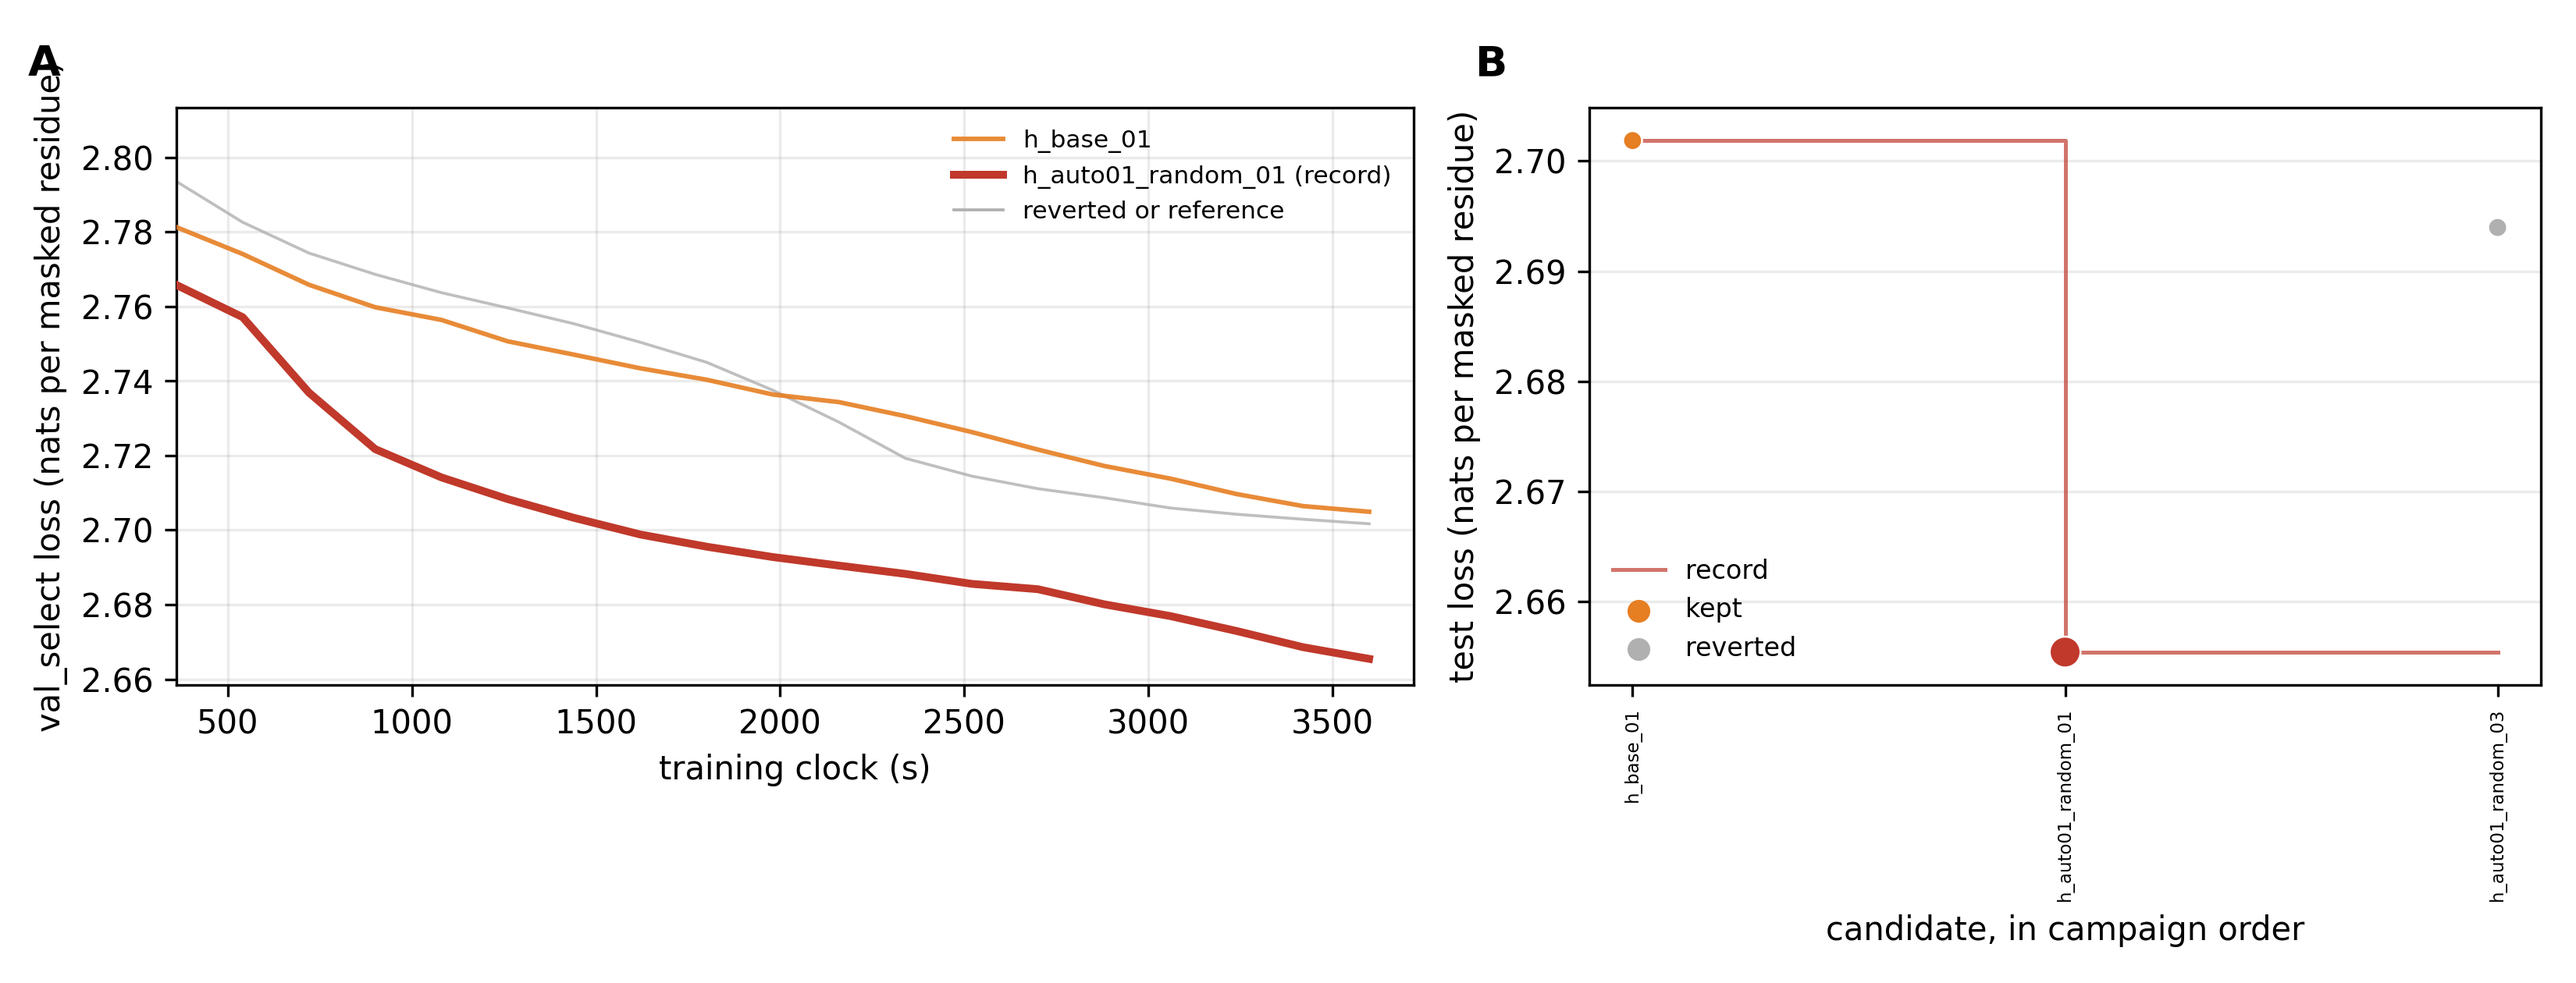
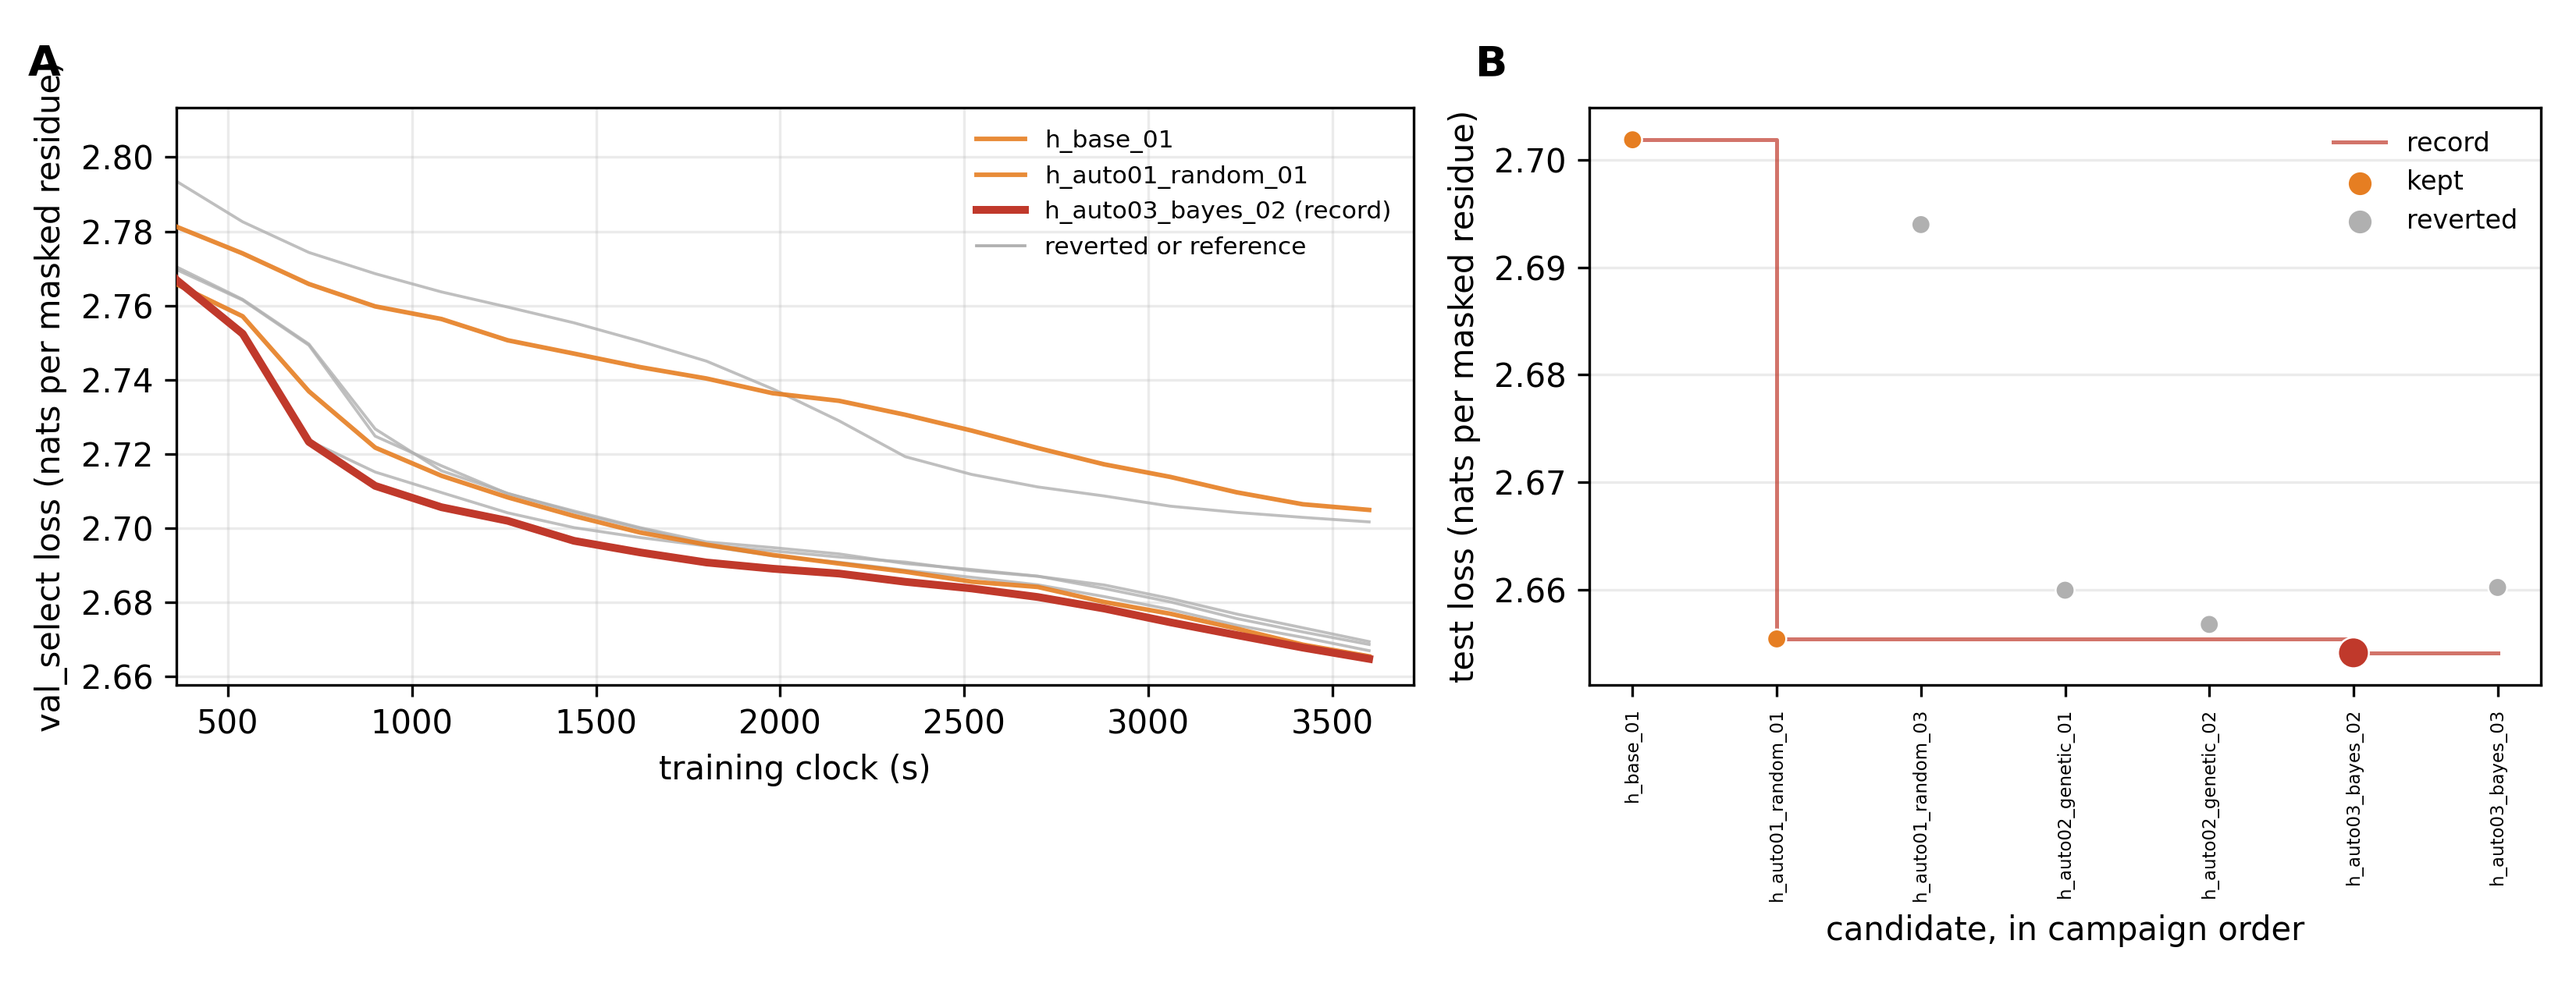
1-hour track: h_auto03_bayes_02 is the hour's record (val_select 2.6648, test 2.6541); its genome; mutations skip numbers inert under the genome's variants; the track's figures redrawn

diff --git a/search.py b/search.py
@@ -531,8 +531,10 @@ def perturbed(dimension: Dimension, value: Any, rng: np.random.Generator) -> Any
 
 
 def mutate(genome: Genome, space: list[Dimension], rng: np.random.Generator, rate: float) -> tuple[Genome, list[str]]:
-    """Each coordinate changes with probability `rate`; at least one always does."""
-    chosen = [dimension for dimension in space if rng.random() < rate] or [space[int(rng.integers(len(space)))]]
+    """Each active coordinate changes with probability `rate`; at least one always does. A number inert under the
+    genome's variants (`dimension_active`) is never the change, since a run would not feel it."""
+    active = [dimension for dimension in space if dimension_active(genome, dimension)]
+    chosen = [dimension for dimension in active if rng.random() < rate] or [active[int(rng.integers(len(active)))]]
     changes = {dimension.key: perturbed(dimension, read(genome, dimension.key), rng) for dimension in chosen}
     return written(genome, changes), sorted(changes)
 

diff --git a/README.md b/README.md
@@ -184,9 +184,13 @@ tokens, 2.2 passes over the stream under fresh masks. Its reference, the 000 bas
 flat across protein length where the 10-minute record is 0.11 better on the longest proteins than the shortest. The
 search's first random draw over the open space ([`genomes/h_auto01_random_01.json`](genomes/h_auto01_random_01.json):
 Muon-plus, peri-norm residuals, a mirrored U-net, a trigram table, neighbor heads, a two-layer head, a length-tempered
-curriculum, a late weight average, the entropy-weighted loss) is the hour's record at `val_select` 2.6655 and test
-2.6554, 0.047 under both the hour's baseline and the 10-minute record; the genetic and Bayes proposers search from it.
-The track's figures are its own, drawn from its own ledger:
+curriculum, a late weight average, the entropy-weighted loss) reached `val_select` 2.6655 and test 2.6554, 0.047
+under both the hour's baseline and the 10-minute record. The genetic and Bayes proposers search from it and hold its
+neighborhood: the hour's record is a Bayes child two steps from it
+([`genomes/h_auto03_bayes_02.json`](genomes/h_auto03_bayes_02.json): 6 heads of 128, the physico-chemical grouping
+loss, whole-protein packing, an embedding mix of 0.10) at `val_select` 2.6648 and test 2.6541, with the five
+full-hour runs of that family within 0.005 of each other and one run resolving about 0.003. The track's figures are
+its own, drawn from its own ledger:
 
 ![The 1-hour track's selection curves and record progression](assets/selection_curves_1h.png)
 
